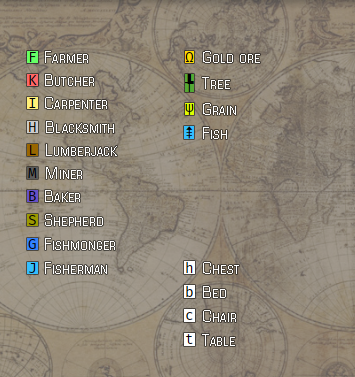
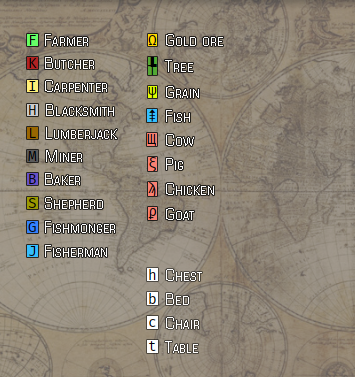
Move animals every 5 turns

Changed region(s): [[0.062, 0.0875, 0.3408, 0.7294], [0.4028, 0.0875, 0.7437, 0.5836], [0.4028, 0.6711, 0.6817, 0.9629]]

diff --git a/src/main/AnimalList.java b/src/main/AnimalList.java
@@ -147,4 +147,33 @@ public class AnimalList {
 		}
 		return fishToReturn;
 	}
+
+	/**
+	 * This method will read all the animals on this list and generate a 10%
+	 * probability to move one of echa his animals in one random direction.
+	 * 
+	 * @param board A board to move the animals of this animalList.
+	 */
+	public void moveAllAnimals(Board board) {
+		for (int i = 0; i < animalList.getLength(); i++) {
+			int random = (int)((Math.random() * (11 - 1)) + 1);
+			
+			switch (random) {
+			case 1:
+				board.moveSomethingUp(animalList.getObjectOnIndex(i));
+				break;
+			case 2:
+				board.moveSomethingDown(animalList.getObjectOnIndex(i));
+				break;
+			case 3:
+				board.moveSomethingLeft(animalList.getObjectOnIndex(i));
+				break;
+			case 4:
+				board.moveSomethingRight(animalList.getObjectOnIndex(i));
+				break;
+			default:
+				break;
+			}
+		}
+	}
 }

diff --git a/src/main/GraphicLauncher.java b/src/main/GraphicLauncher.java
@@ -689,6 +689,9 @@ public class GraphicLauncher extends JFrame implements KeyListener{
 	 */
 	public void generateOneTurn() {
 		this.passOneTurn();
+		if (this.actualTurn.getQuantity() % 5 == 0) {
+			this.animalList.moveAllAnimals(board);
+		}
 		MoveController.moveAllCitizens(board, citizenList);
 		InteractController.interactAll(board, citizenList);
 		textCentralArea.setText("\n" + board.toString());
